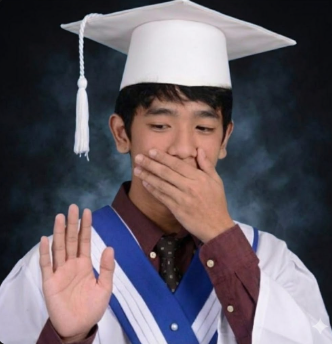
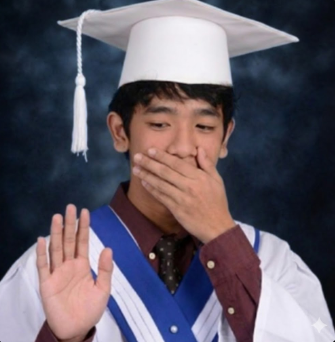
darkmode images

diff --git a/simple_portfolio.html b/simple_portfolio.html
@@ -76,6 +76,14 @@
       background-image: url('Images/web_shy.png');
     }
 
+    body.dark-mode .avatar {
+      background-image: url('Images/darkmode_normal.png');
+    }
+
+    body.dark-mode .avatar:hover {
+      background-image: url('Images/darkmode_shy.png');
+    }
+
     .name {
       font-size: 32px;
       letter-spacing: 0.3px;
